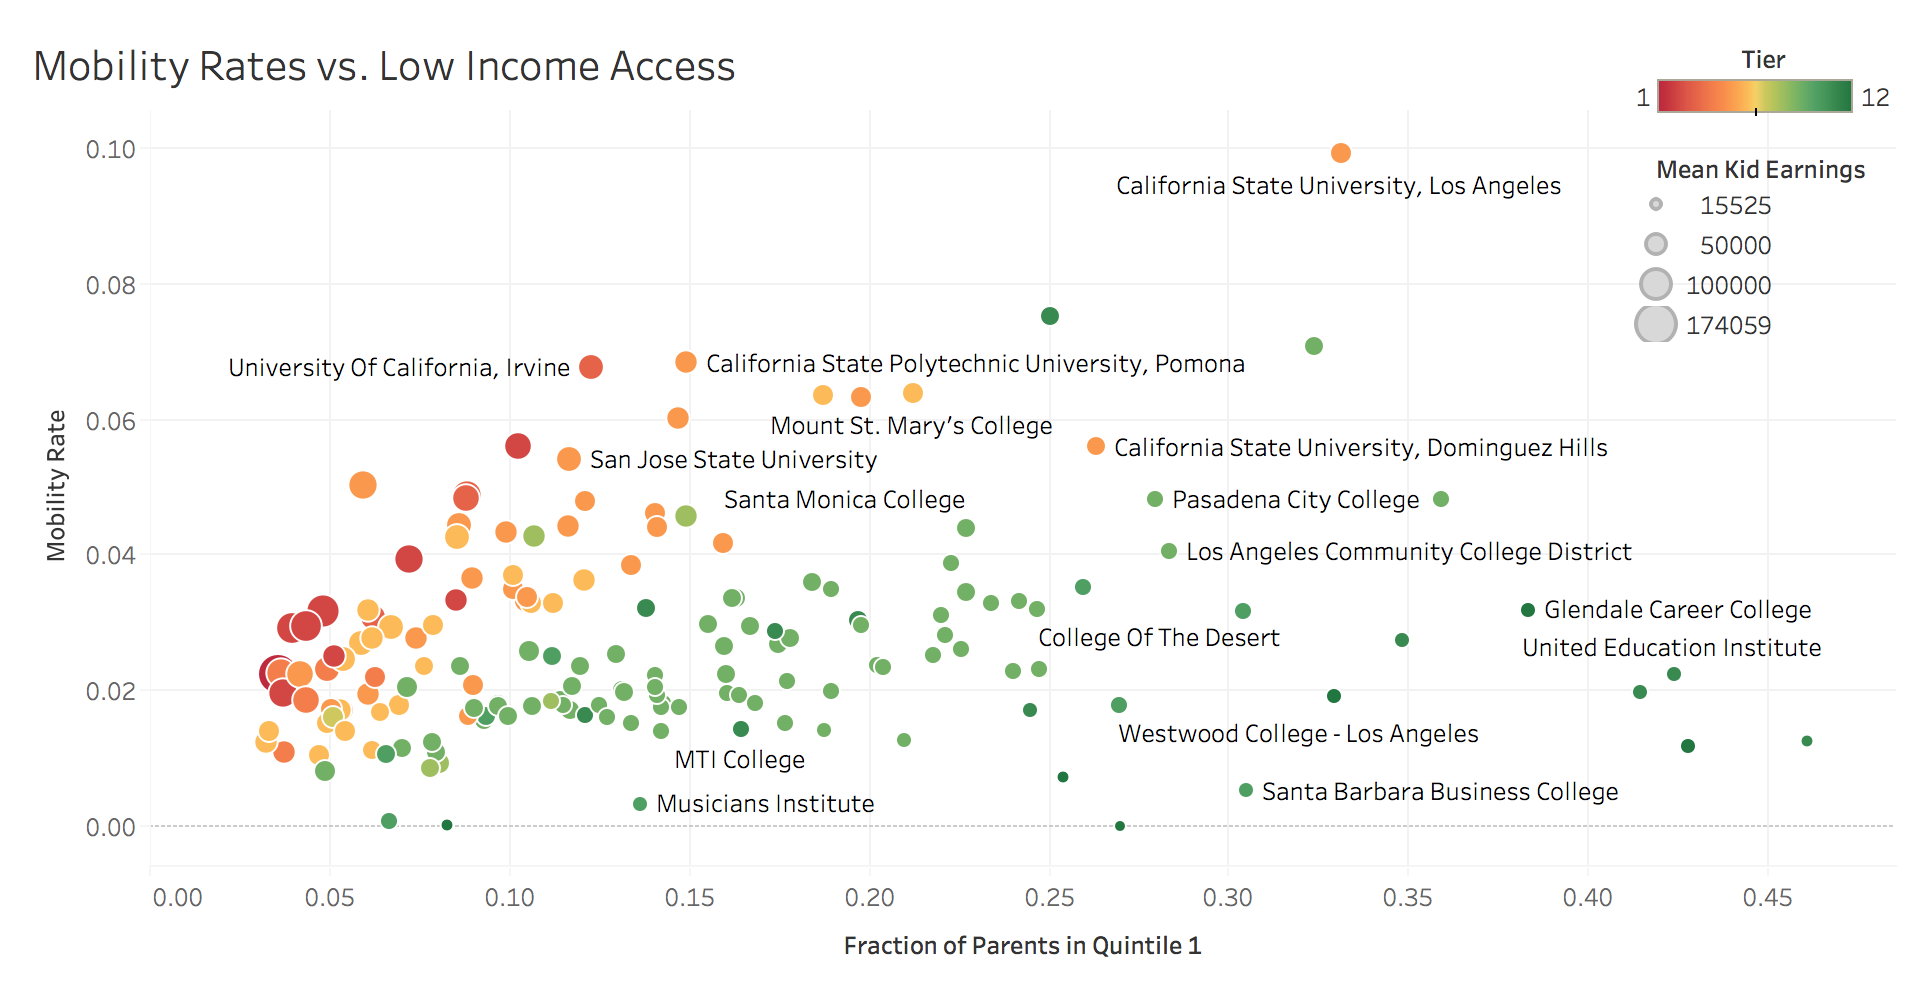
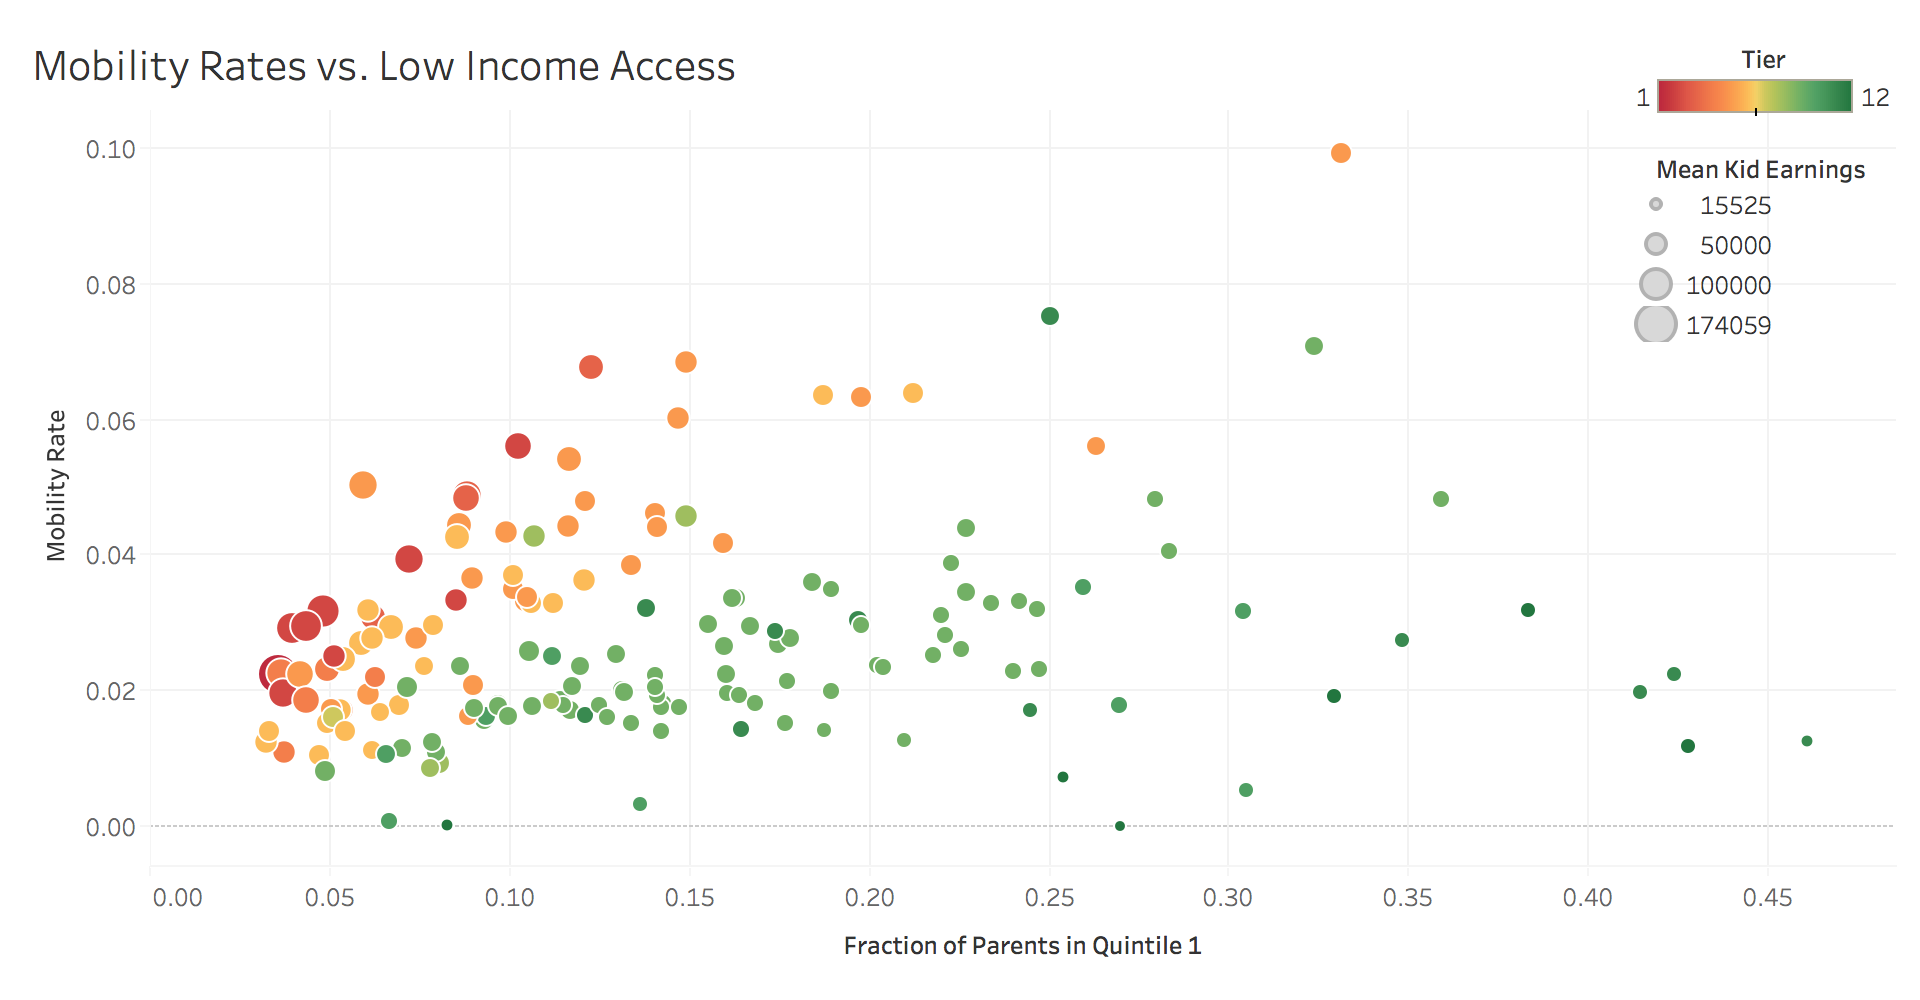
Update bubble chart to remove labels

diff --git a/bubbleChart.js b/bubbleChart.js
@@ -29,12 +29,12 @@ const scales = {
 };
 
 scales.x.range([0, width-margin.left-margin.right]);
-scales.x.domain([0, 0.45]);
+scales.x.domain([0, 0.50]);
 
 scales.y.range([height-margin.top-margin.bottom, 0]);
 scales.y.domain([0, 0.10]);
 
-scales.r.range([1, 15]);
+scales.r.range([3, 15]);
 scales.r.domain([15525, 174059]);
 
 scales.fill.domain([1, 6, 12]);
@@ -59,7 +59,7 @@ function drawBubbleAxis() {
   let xAxis = d3.axisBottom(scales.x);
   let yAxis = d3.axisLeft(scales.y);
 
-  xAxis.ticks(10).tickSizeOuter(0);
+  xAxis.ticks(11).tickSizeOuter(0);
   yAxis.ticks(11).tickSizeOuter(0);
 
   xGroup.attr("transform", "translate(0," + plotHeight + ")");
@@ -227,7 +227,7 @@ function drawBubbles(data) {
       .style("stroke", "white")
       .style("fill", d => scales.fill(d.tier));
 
-      drawLabels(data);
+      //drawLabels(data);
 }
 
 
